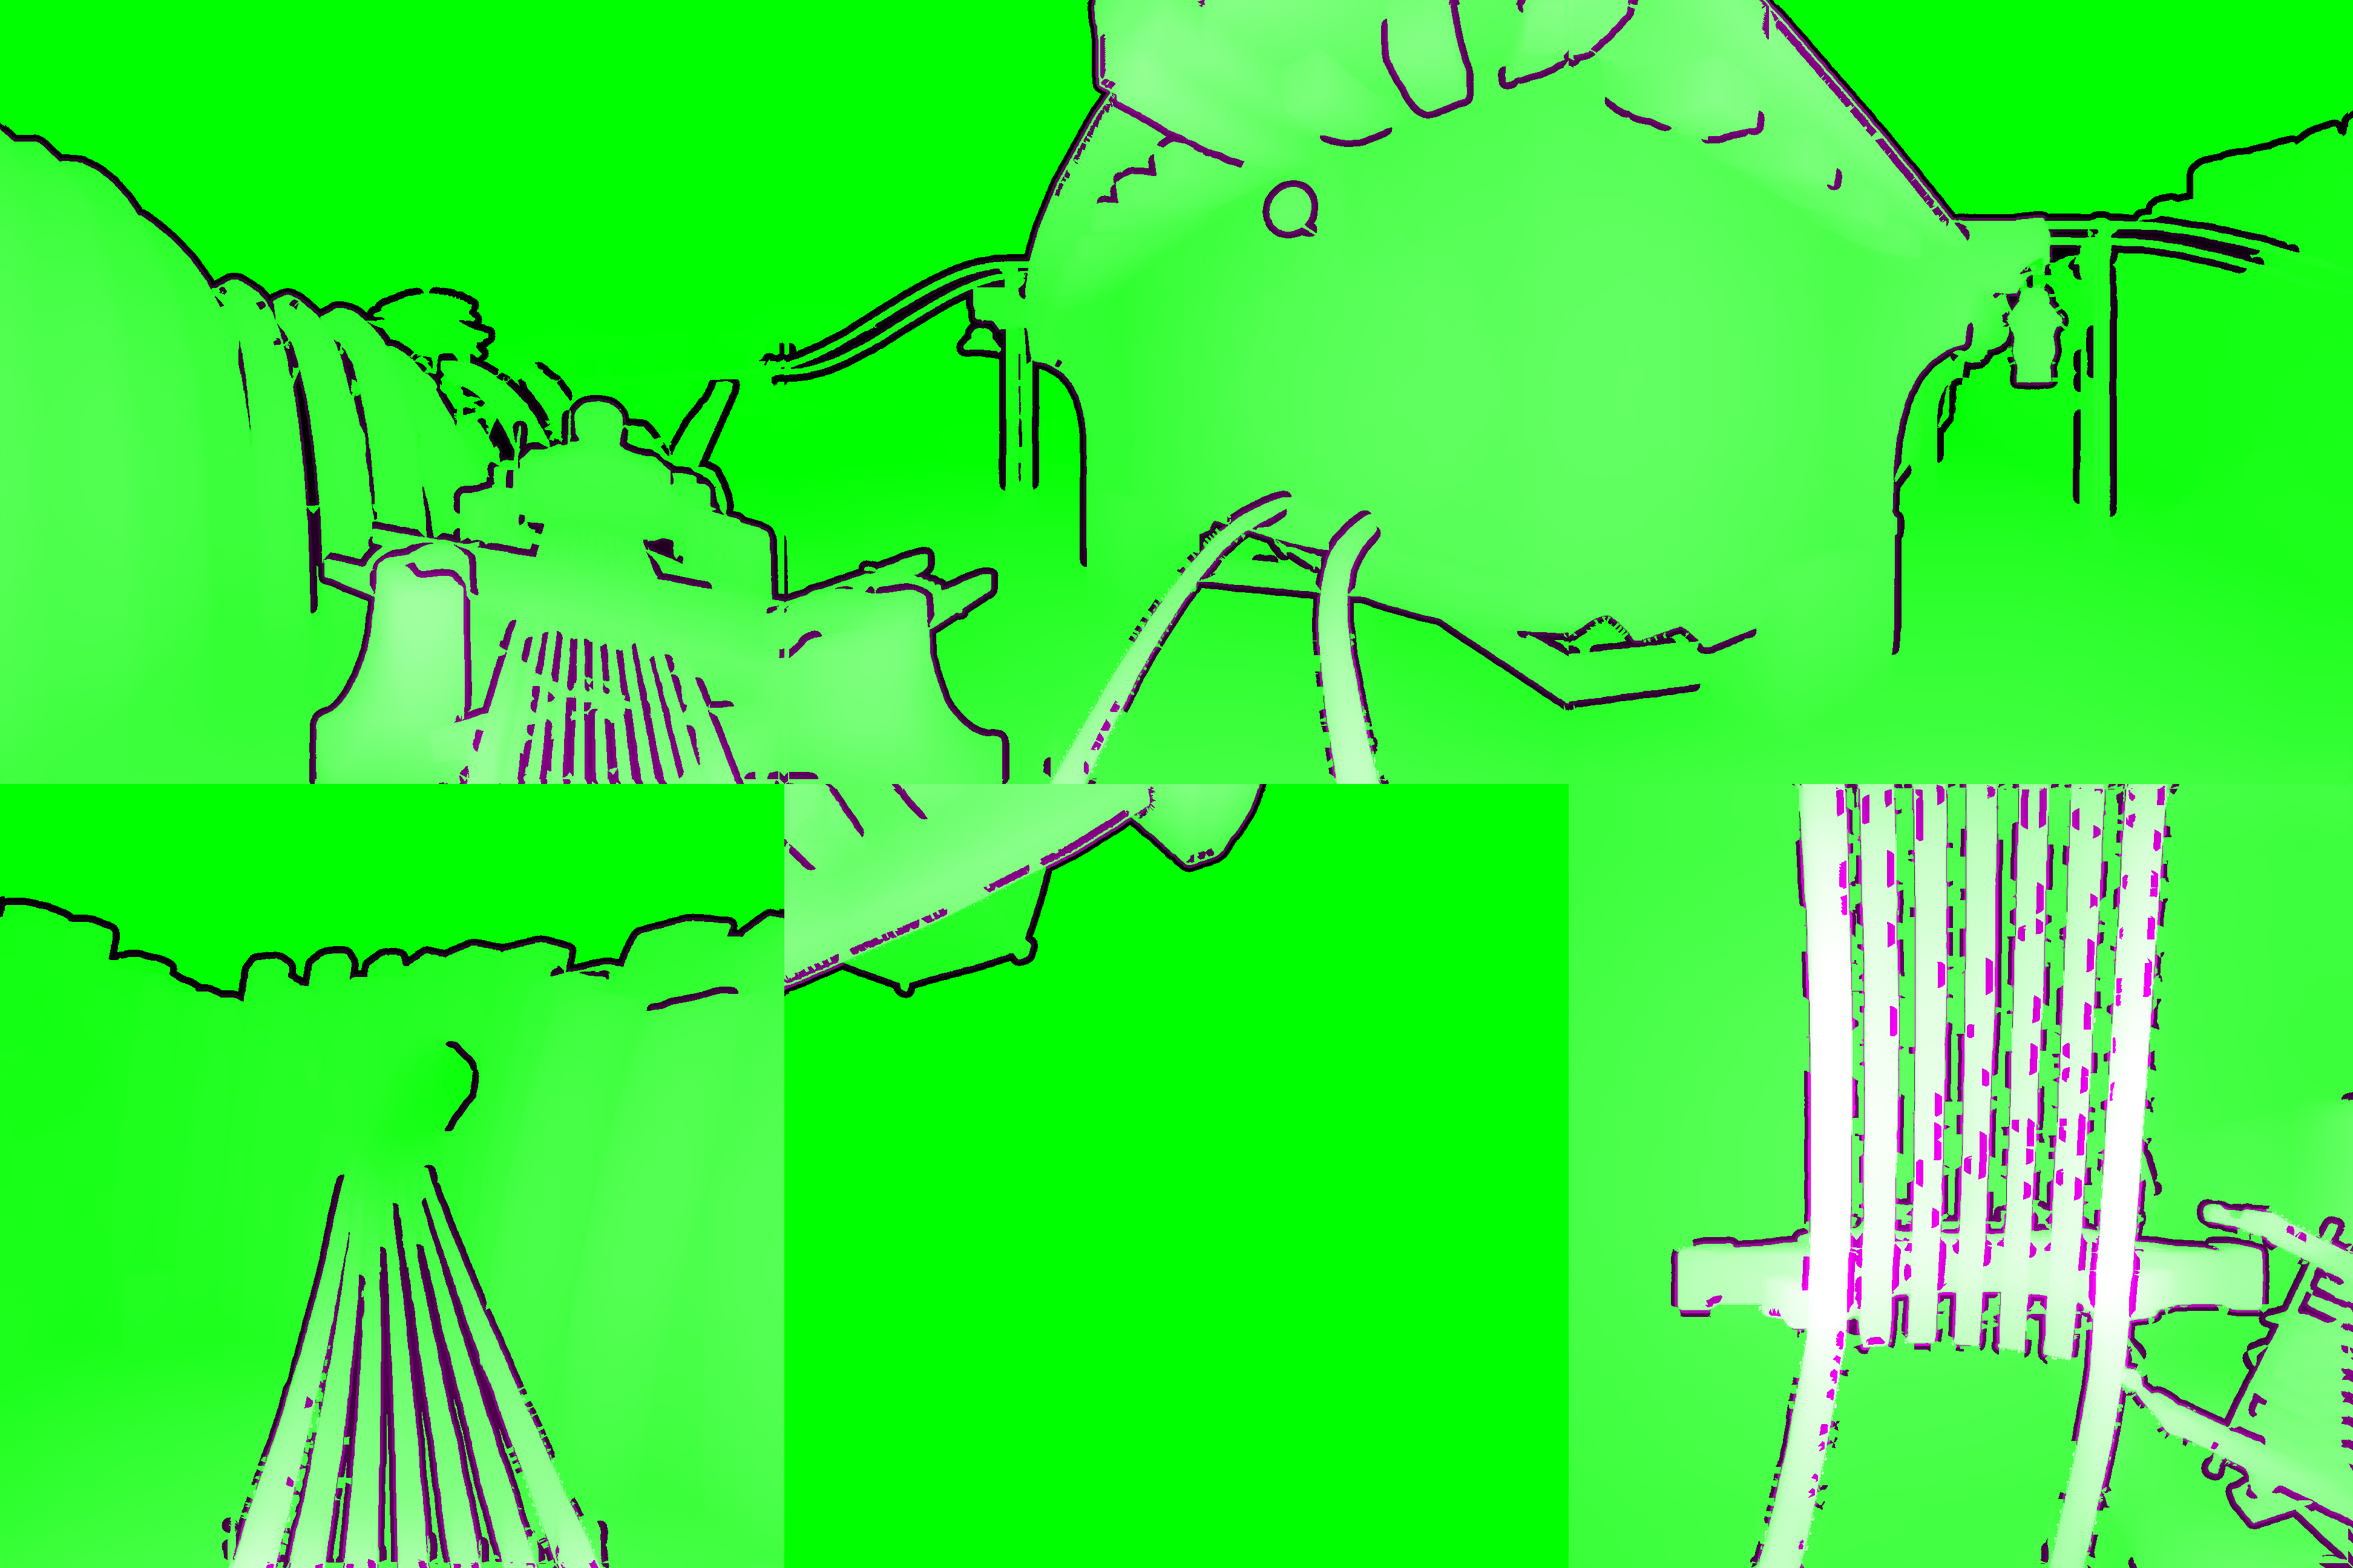
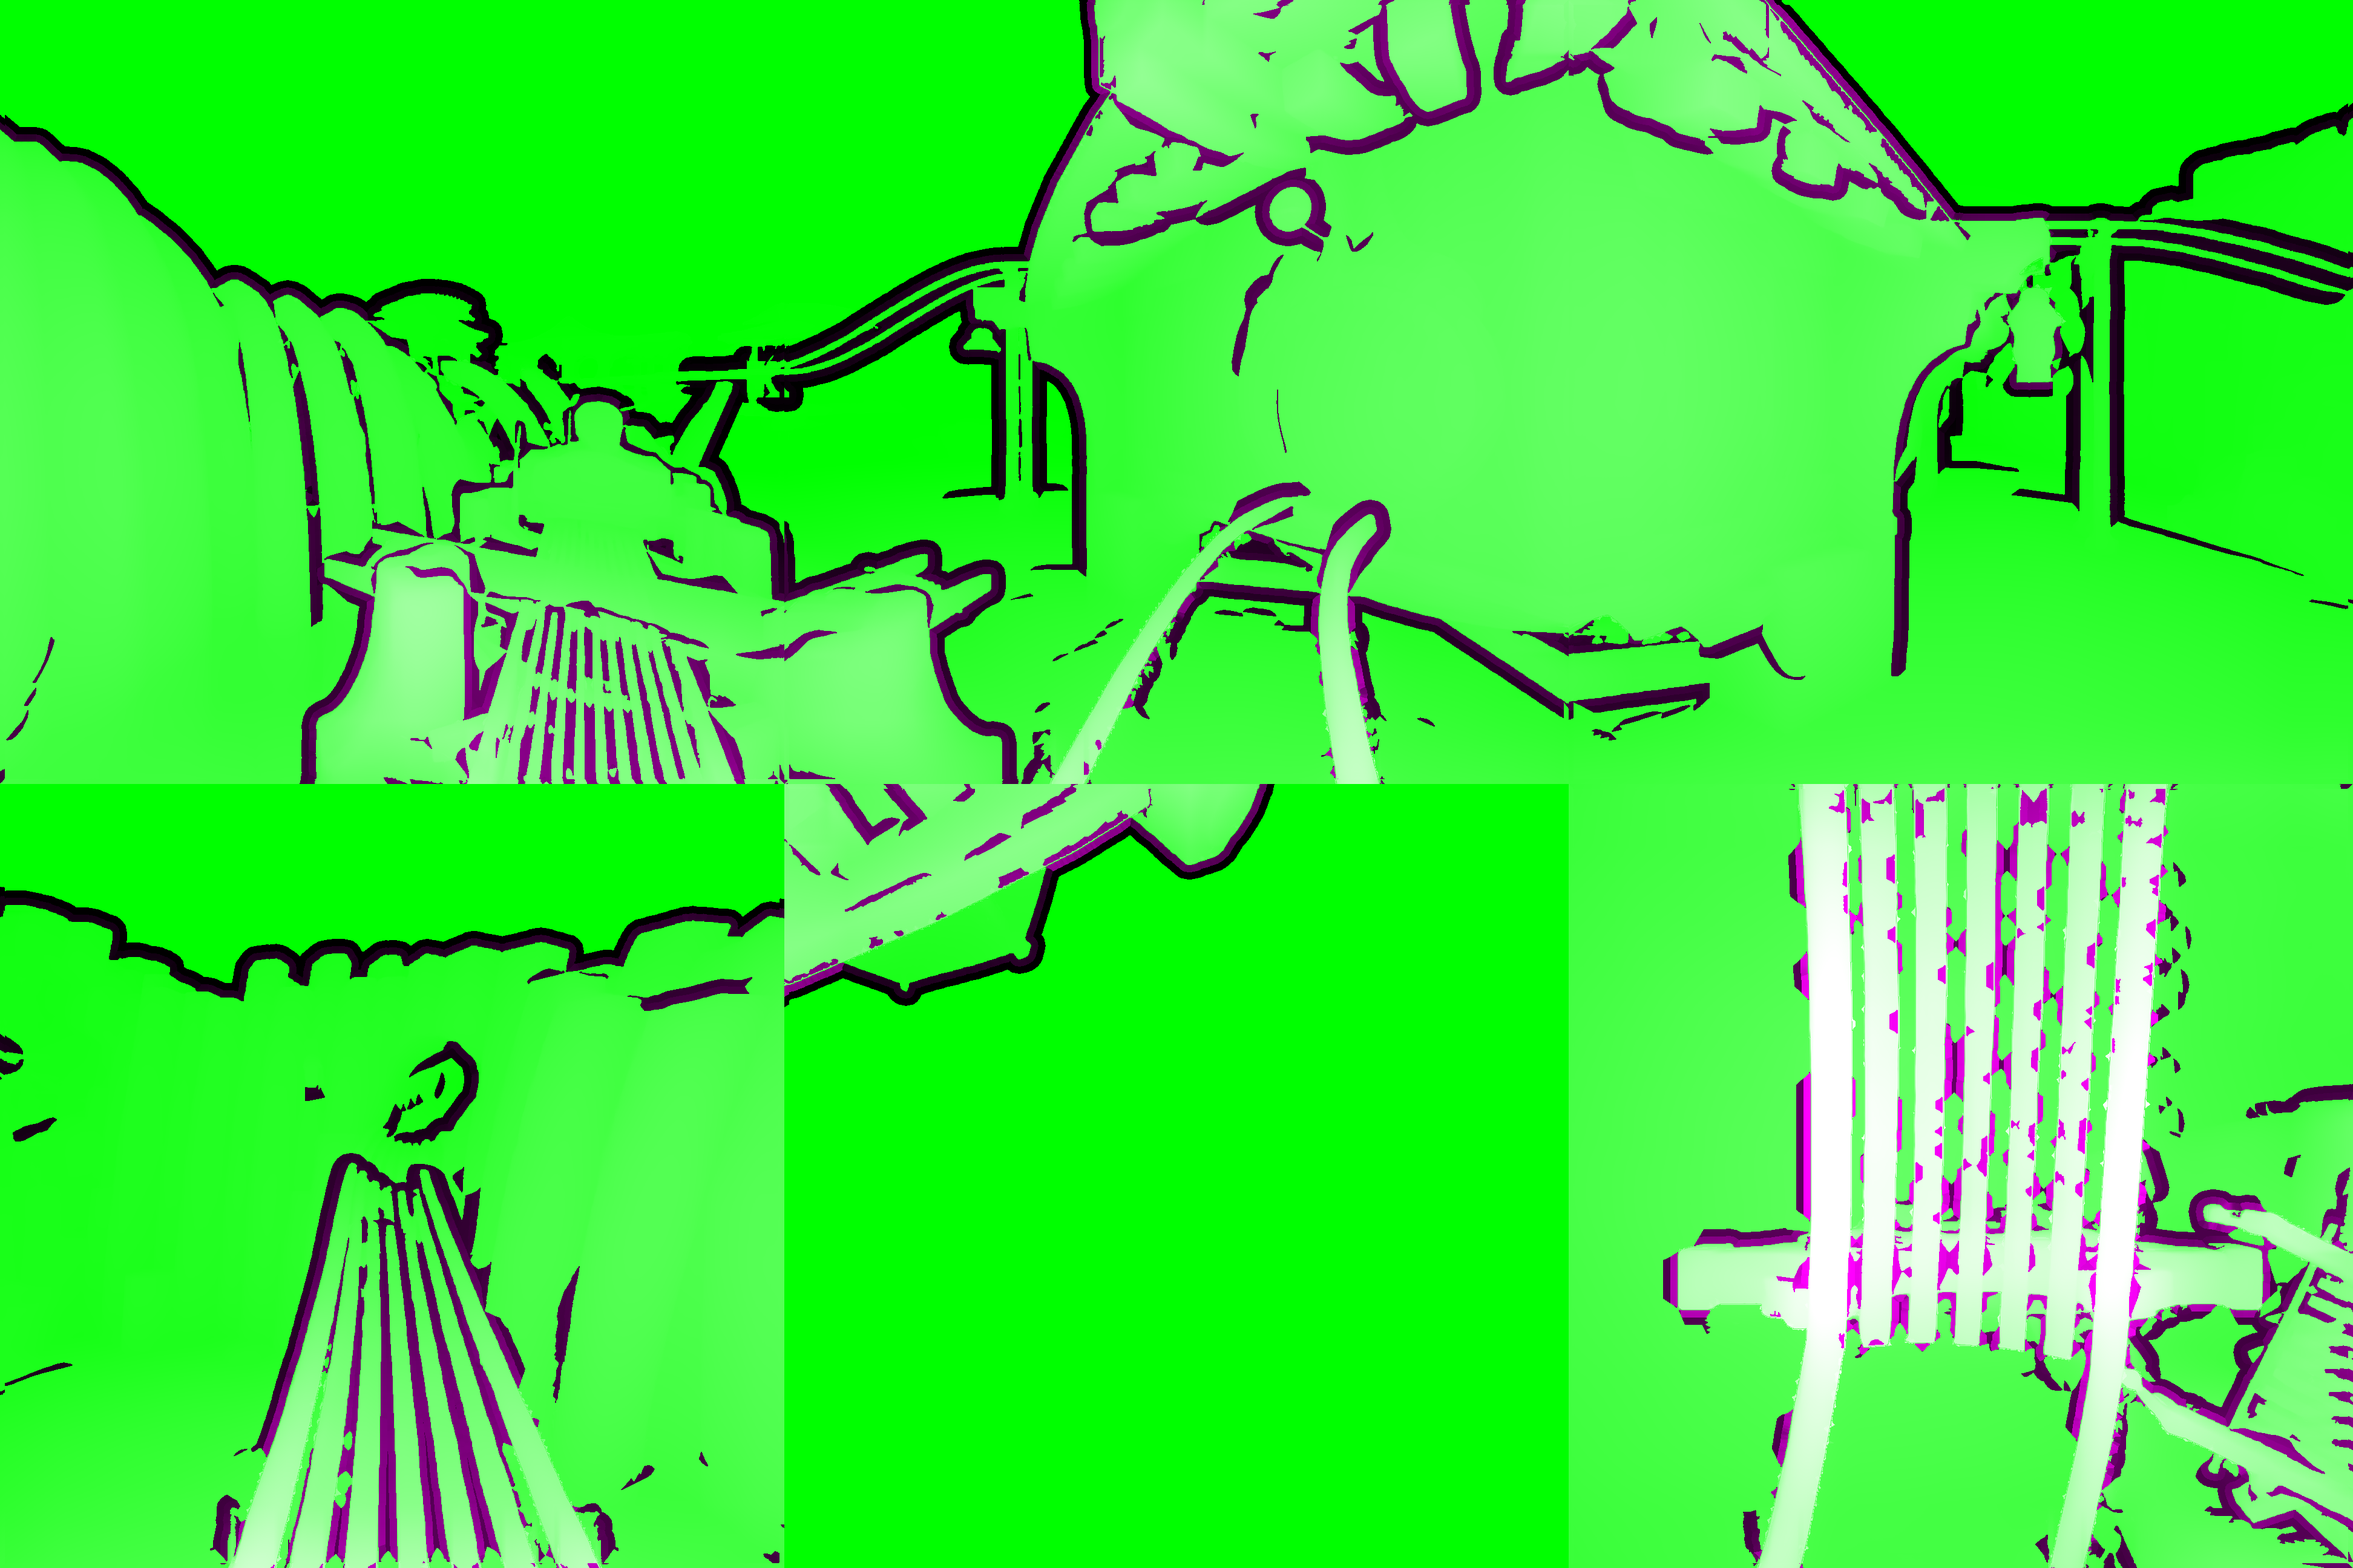
Thin things in the Layered versions no longer wiggle as the eye moves. The cut now follows each near object's whole outline instead of the pixels where the depth jumps, which left it dashed where the step was just under the threshold, and the object's depth carries on 6 px past its outline under a 1
Claude-Session: https://claude.ai/code/session_01PGTZsQJKeQ77ippduWGzGV

diff --git a/cube/amateria/layers/build_layers.py b/cube/amateria/layers/build_layers.py
@@ -147,39 +147,45 @@ def remove_specks(m, area):
 
 
 def hole_band(q, whole, t, width, step_at, speck=80):
-    """Voltaic's way of cutting, for every step: the width px on its far side
-    become a hole in the foreground (green 0), and the near depth carries on
-    under the hole for step_at px, so the mesh's step lies inside it. The mesh
-    has a vertex every 2.5 px and smooths depth over as much, so a step is a
-    ramp of stretched triangles about 5 px wide; cut by the tear test, which
-    reaches about a pixel from the step, the rest of that ramp showed as
-    jagged teeth along every edge. A hole is cut by the picture's own pixels."""
-    # Hysteresis, as in edge finding: a step of half the size counts where it
-    # joins a full one, and gaps of a pixel or two along an edge are closed.
-    # Without it, where a step was a little softer the hole stopped, the cut
-    # along an edge was a dotted line, and pixels of the near object's edge
-    # stayed behind between the dots: a speckle along every rail and walkway.
-    strong, _ = jumps(q, t)
+    """Voltaic's way of cutting, for every near object: the width px outside
+    its outline that lie noticeably farther than it become a hole in the
+    foreground (green 0), and the object's depth carries on under the hole for
+    step_at px, so the mesh's step lies inside it. The mesh has a vertex every
+    2.5 px and smooths depth over as much, so a step is a ramp of stretched
+    triangles about 5 px wide; cut by the tear test, which reaches about a
+    pixel from the step, the rest of that ramp showed as jagged teeth along
+    every edge. A hole is cut by the picture's own pixels.
+
+    The band follows the near object's whole outline (removed_region's
+    `whole`). Found from the edge pixels where the depth jumps, it was a dashed
+    line wherever a softer stretch of the step escaped the jump test: pixels
+    of the edge stayed behind between the dashes, a speckle and a saw-toothed
+    wiggle along every rail and walkway edge as the eye moved. Its outline is
+    smoothed over a pixel or so, and specks under `speck` px go.
+
+    The depth carries on under the hole for 6 px of a 640 px face (12 at
+    1280) and the hole is twice that: on a phone the mesh has a vertex every
+    2.5 px of a 640 px face and each vertex averages the depth a quad round
+    it, so with 3 px the vertices just inside an outline took in some of the
+    far side and the rim bent back by a vertex-spaced pattern as the eye moved,
+    a wiggle along every thin thing (ENSI 16's spire blades, the slit between
+    them)."""
     hole = np.zeros(q.shape, bool)
-    if not strong.any():
+    if not whole.any():
         return q.copy(), hole
-    weak, _ = jumps(q, t / 2)
-    weak = cv2.morphologyEx((weak | strong).astype(np.uint8), cv2.MORPH_CLOSE, np.ones((3, 3), np.uint8)) > 0
-    _, wc = cv2.connectedComponents(weak.astype(np.uint8), connectivity=8)
-    keep = np.unique(wc[strong]); keep = keep[keep > 0]
-    near_e = np.isin(wc, keep) & ~whole | strong
-    qmax = cv2.dilate(q.astype(np.float32), np.ones((5, 5), np.uint8))
-    dist, lab = cv2.distanceTransformWithLabels((~near_e).astype(np.uint8), cv2.DIST_L2, 5,
+    rim = whole & ~(cv2.erode(whole.astype(np.uint8), np.ones((3, 3), np.uint8)) > 0)
+    qmax = cv2.dilate(np.where(whole, q, 0).astype(np.float32), np.ones((5, 5), np.uint8))
+    dist, lab = cv2.distanceTransformWithLabels((~rim).astype(np.uint8), cv2.DIST_L2, 5,
                                                 labelType=cv2.DIST_LABEL_PIXEL)
-    ys, xs = np.nonzero(near_e)
+    ys, xs = np.nonzero(rim)
     nq_of = np.zeros(lab.max() + 1, np.float32); nq_of[lab[ys, xs]] = qmax[ys, xs]
     nq = nq_of[lab]
-    far_side = ~whole & ~near_e & (nq > q + t / 4)
+    far_side = ~whole & (nq > q + t / 4)
     hole = far_side & (dist <= width)
-    # No specks: holes of under speck pixels go, and so do islands of
-    # foreground that small inside a hole.
+    hole = cv2.GaussianBlur(hole.astype(np.float32), (0, 0), 1.0) > 0.5
     hole = remove_specks(hole, speck)
     hole = ~remove_specks(~hole, speck)
+    hole &= ~whole
     out = q.copy()
     under = far_side & (dist <= step_at)
     out[under] = nq[under]
@@ -285,8 +291,8 @@ def main():
     ap.add_argument('--names', nargs=6, help="the six faces' file names without suffix, in node_depth.py's order "
                     "(front, bottom, back, right, left, top; default MAWWnodes-8 ... -13)")
     ap.add_argument('--colour-suffix', default='_orig.jpeg'); ap.add_argument('--depth-suffix', default='_measured-depth.png')
-    ap.add_argument('--hole', type=int, default=6, help='px of the far side of a step cut out of the foreground')
-    ap.add_argument('--hole-step', type=int, default=3, help='px of the hole the near depth carries on under')
+    ap.add_argument('--hole', type=int, default=12, help='px of the far side of a step cut out of the foreground')
+    ap.add_argument('--hole-step', type=int, default=6, help='px of the hole the near depth carries on under')
     a = ap.parse_args()
     os.makedirs(a.out, exist_ok=True)
     col, dep = {}, {}

diff --git a/cube/README.md b/cube/README.md
@@ -404,7 +404,14 @@ painting (`--fringe`), and the real far side beyond: a 12 px strip of painted
 water was darker than the water beside it and showed as a jagged line along
 the walkway. Gaps narrower than the cut between parts of a near object (the
 slit between ENSI 16's spire blades) are painted whole; left at the far
-side's depth they stayed behind as pale ghosts. Moving the measured
+side's depth they stayed behind as pale ghosts. The cut now follows each near object's
+whole outline rather than the pixels where the depth jumps, which left it
+dashed wherever the step was just under the threshold; and the object's depth
+carries on 6 px past its outline under a 12 px hole (12 and 24 at 1280). On
+a phone the mesh has a vertex every 2.5 px of a 640 px face and each vertex
+averages the depth a quad round it; with 3 px, the vertices just inside an
+outline took in some of the far side and the rim bent back in a
+vertex-spaced pattern as the eye moved, a wiggle along every thin thing. Moving the measured
 depth's edges onto the picture's by colour was tried first (pixels within
 14–18 px of a jump relabelled near or far) and dropped: in these dark faces
 the labels came out speckled, each speckle tore, and the rings and arcs broke
